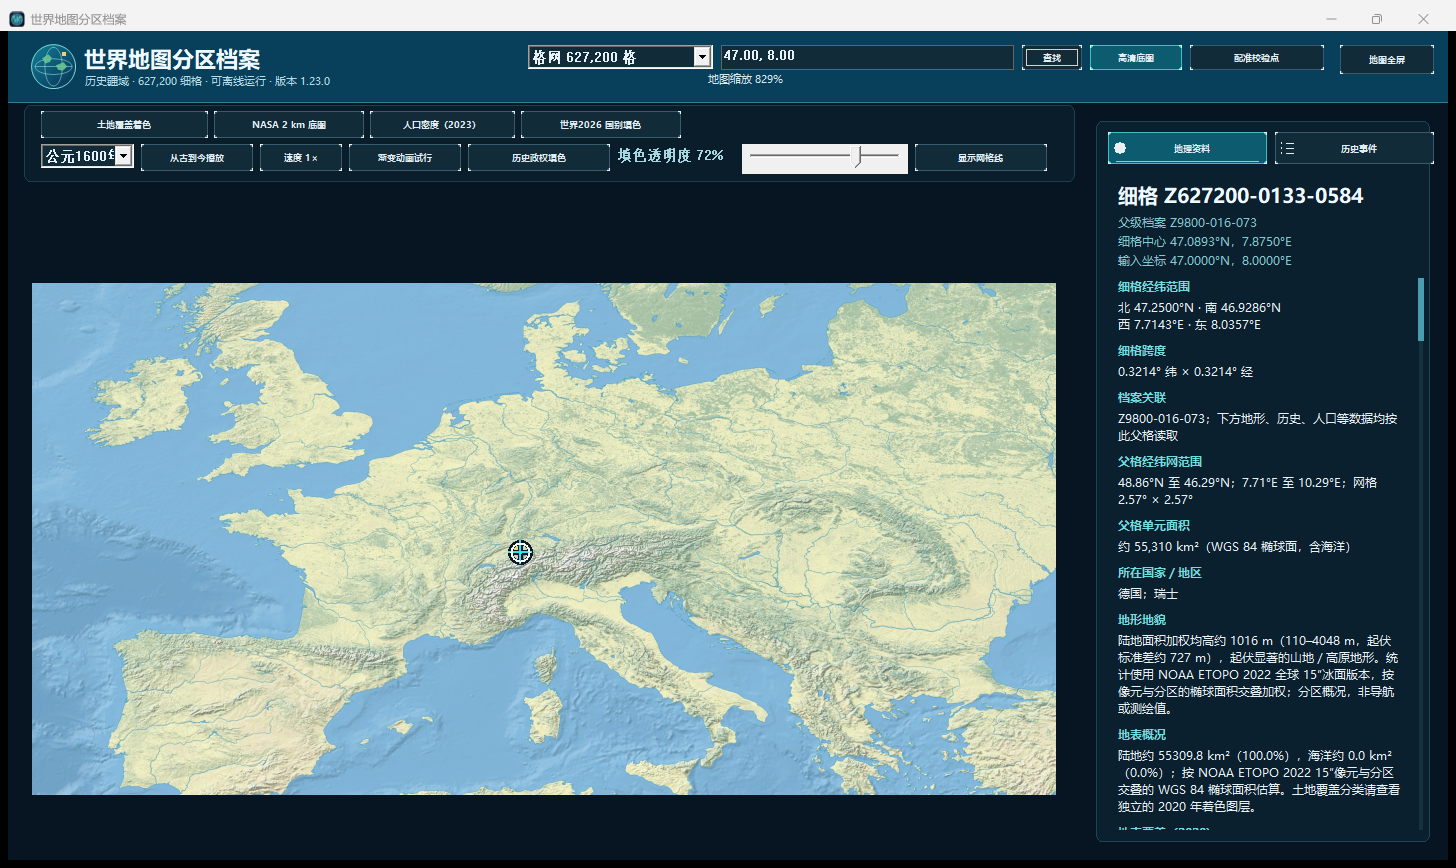
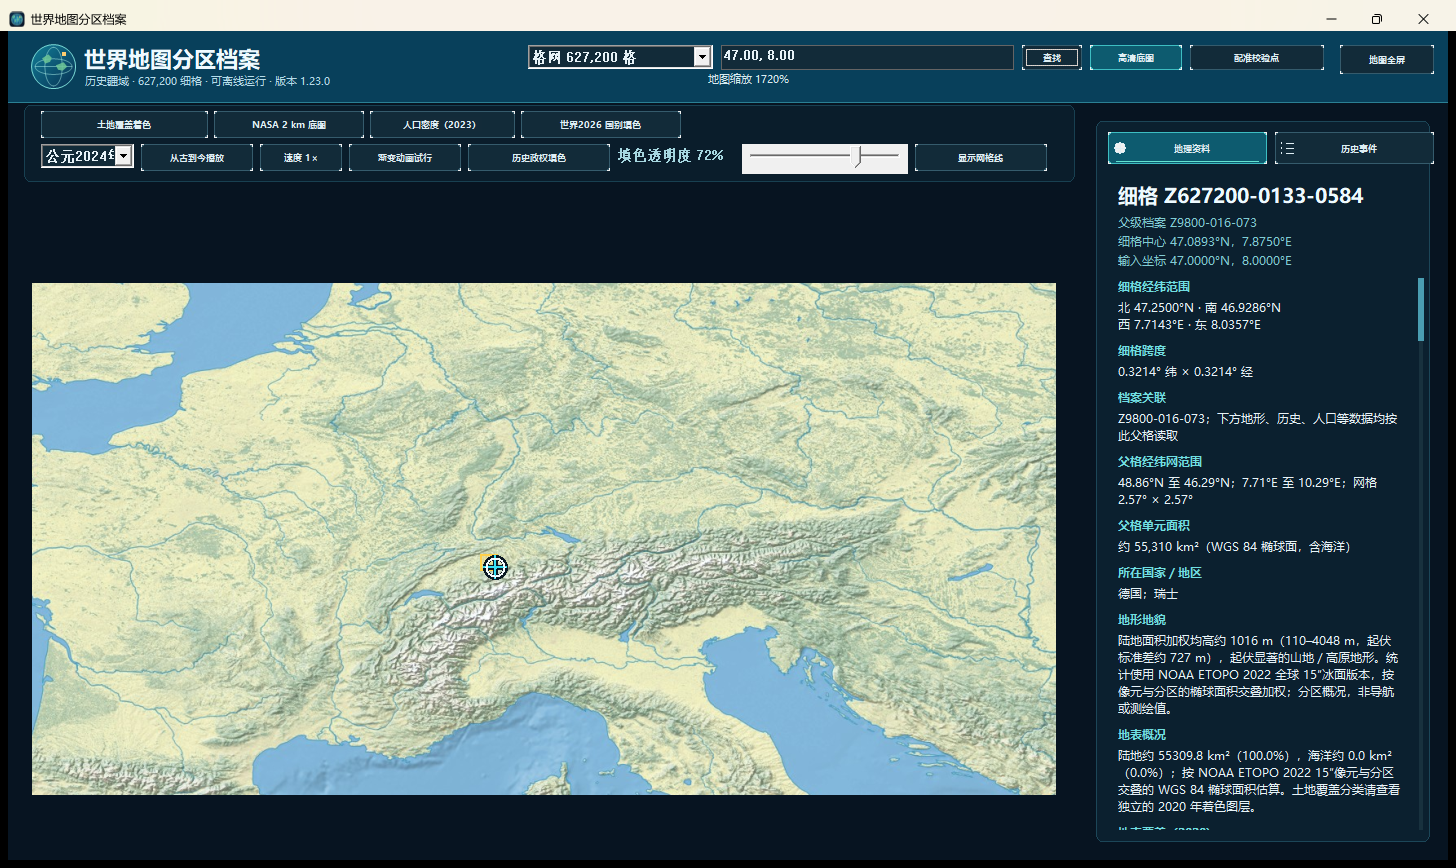
Organize complete screenshot showcase

Changed region(s): [[0.0, 0.3111, 0.7418, 0.9332], [0.0309, 0.0, 0.0927, 0.0311]]

diff --git a/screenshots/README.md b/screenshots/README.md
@@ -1,66 +1,104 @@
 # 1.23.0 界面截图画廊
 
-本目录保存 22 张来自完整运行版 1.23.0 的全界面 PNG，原图尺寸约为 1456 × 868 像素；点击预览即可查看或下载原图。
+本目录按“基础地图与专题”和“历史政权”两部分整理了 35 张完整界面 PNG。多数原图尺寸为 1456 × 868 像素；全屏地图为 1440 × 900 像素。点击图片可打开原图。
 
-- Natural Earth 展示图均启用了 Natural Earth 10m 高清底图；NASA 组使用 NASA Blue Marble 底图及其 1 km、500 m 细节影像。
-- 地图定位档位设为 627,200 格。细格定位特写开启网格线，其余视图减少网格线以保持地图清楚。
-- 历史截图已开启对应年份的历史政权填色；2026 年国别、WorldPop 2023 人口和 2020 年土地覆盖各自单独展示。
-- 透明度对照使用相同的公元 1600 年欧洲视角，分别显示 25%、72% 默认值和 100%。
+- Natural Earth 部分使用 Natural Earth 10m 高清底图；NASA 部分使用 NASA Blue Marble 与应用内可用的 1 km、500 m 细节影像。
+- 网格档位统一选择 627,200 格。网格线对照图使用相同地点、相同缩放比例，仅切换网格线状态。
+- 历史时期图均开启对应年份的历史政权填色；同组对照图保持年份、地点和缩放一致。
+- 项目里的专题图层是 **2020 年土地覆盖**，不是土壤成分或土壤类型图。其余专题图层为 2026 年国别分类与 WorldPop 2023 人口估算。
 
-## 世界底图与细格定位
+## 一、基础地图与专题
 
-| 全球高清底图 | 日本细格定位 |
+### 两张全球高清底图
+
+| Natural Earth 10m | NASA Blue Marble |
 | --- | --- |
-| **01 · Natural Earth 10m 全球底图**<br><a href="./01-world-overview.png"><img src="./01-world-overview.png" width="100%" alt="Natural Earth 10m 全球高清底图"></a> | **02 · 日本 627,200 格细格定位**<br><a href="./02-fine-grid-location.png"><img src="./02-fine-grid-location.png" width="100%" alt="日本细格定位与网格线"></a> |
+| **01 · Natural Earth 10m 全球高清底图**<br><a href="./01-world-overview.png"><img src="./01-world-overview.png" width="100%" alt="Natural Earth 10m 全球高清底图"></a> | **16 · NASA Blue Marble 全球底图**<br><a href="./16-nasa-blue-marble.png"><img src="./16-nasa-blue-marble.png" width="100%" alt="NASA Blue Marble 全球底图"></a> |
 
-| 非洲局部与细格 | Natural Earth 高清细节 |
+### Natural Earth 高清底图局部放大（4 个地区）
+
+| 欧洲 | 非洲 |
 | --- | --- |
-| **03 · 非洲中部高清放大与细格**<br><a href="./03-africa-detail.png"><img src="./03-africa-detail.png" width="100%" alt="非洲中部的高清地形和细格"></a> | **15 · 欧洲 Natural Earth 高清细节**<br><a href="./15-natural-earth-high-resolution.png"><img src="./15-natural-earth-high-resolution.png" width="100%" alt="Natural Earth 10m 高清底图欧洲放大图"></a> |
+| **15 · 欧洲地形细节**<br><a href="./15-natural-earth-high-resolution.png"><img src="./15-natural-earth-high-resolution.png" width="100%" alt="Natural Earth 高清底图欧洲局部放大"></a> | **15a · 非洲地形细节**<br><a href="./15a-natural-earth-africa-detail.png"><img src="./15a-natural-earth-africa-detail.png" width="100%" alt="Natural Earth 高清底图非洲局部放大"></a> |
 
-## 历史政权与填色透明度
-
-| 公元 1000 年 | 公元 1600 年 |
+| 安第斯山脉 | 喜马拉雅山脉 |
 | --- | --- |
-| **04 · 历史政权填色**<br><a href="./04-history-1000.png"><img src="./04-history-1000.png" width="100%" alt="公元 1000 年历史政权填色全球图"></a> | **05 · 历史政权填色**<br><a href="./05-history-1600.png"><img src="./05-history-1600.png" width="100%" alt="公元 1600 年历史政权填色全球图"></a> |
+| **15b · 安第斯山脉地形细节**<br><a href="./15b-natural-earth-andes-detail.png"><img src="./15b-natural-earth-andes-detail.png" width="100%" alt="Natural Earth 高清底图安第斯山脉局部放大"></a> | **15c · 喜马拉雅山脉地形细节**<br><a href="./15c-natural-earth-himalaya-detail.png"><img src="./15c-natural-earth-himalaya-detail.png" width="100%" alt="Natural Earth 高清底图喜马拉雅山脉局部放大"></a> |
 
-| 公元 1800 年 | 公元 2024 年 |
+### 627,200 格网格线开／关对照
+
+| 显示网格线 | 隐藏网格线 |
 | --- | --- |
-| **06 · 历史政权填色**<br><a href="./06-history-1800.png"><img src="./06-history-1800.png" width="100%" alt="公元 1800 年历史政权填色全球图"></a> | **07 · 历史政权填色**<br><a href="./07-history-2024.png"><img src="./07-history-2024.png" width="100%" alt="公元 2024 年历史政权填色全球图"></a> |
+| **02 · 日本局部细格，网格线开启**<br><a href="./02-fine-grid-location.png"><img src="./02-fine-grid-location.png" width="100%" alt="日本局部细格与网格线开启状态"></a> | **02a · 同一视角，网格线关闭**<br><a href="./02a-fine-grid-location-no-gridlines.png"><img src="./02a-fine-grid-location-no-gridlines.png" width="100%" alt="日本局部细格与网格线关闭状态"></a> |
 
-| 72% 默认透明度 | 25% 透明度 |
+非洲中部的细格定位与网格线示例见 **03**：<a href="./03-africa-detail.png"><img src="./03-africa-detail.png" width="50%" alt="非洲中部细格定位与网格线"></a>
+
+### 人口与土地覆盖
+
+| WorldPop 2023 人口估算 | 南亚人口局部图 |
 | --- | --- |
-| **08 · 公元 1600 年欧洲历史图，默认 72%**<br><a href="./08-history-europe-1600-opacity-72.png"><img src="./08-history-europe-1600-opacity-72.png" width="100%" alt="历史填色默认透明度 72%"></a> | **08a · 同一视角，25%**<br><a href="./08a-history-europe-1600-opacity-25.png"><img src="./08a-history-europe-1600-opacity-25.png" width="100%" alt="历史填色透明度 25%"></a> |
+| **11 · 全球人口密度估算**<br><a href="./11-population-2023.png"><img src="./11-population-2023.png" width="100%" alt="WorldPop 2023 全球人口密度估算"></a> | **12 · 南亚人口放大图**<br><a href="./12-population-south-asia.png"><img src="./12-population-south-asia.png" width="100%" alt="南亚人口密度估算局部放大"></a> |
 
-| 100% 透明度 |
-| --- |
-| **08b · 同一视角，100%**<br><a href="./08b-history-europe-1600-opacity-100.png"><img src="./08b-history-europe-1600-opacity-100.png" width="100%" alt="历史填色透明度 100%"></a> |
-
-## 国别与专题图层
-
-| 2026 年国家与地区分类 | 欧洲国别放大图 |
+| 2020 年土地覆盖 | 非洲土地覆盖局部图 |
 | --- | --- |
-| **09 · 2026 年国别填色**<br><a href="./09-country-regions-2026.png"><img src="./09-country-regions-2026.png" width="100%" alt="2026 年国别填色全球图"></a> | **10 · 欧洲国别放大图**<br><a href="./10-country-europe-zoom.png"><img src="./10-country-europe-zoom.png" width="100%" alt="欧洲国家与地区填色放大图"></a> |
+| **13 · 全球土地覆盖类别**<br><a href="./13-land-cover-2020.png"><img src="./13-land-cover-2020.png" width="100%" alt="2020 年全球土地覆盖专题图"></a> | **14 · 非洲土地覆盖类别**<br><a href="./14-land-cover-africa.png"><img src="./14-land-cover-africa.png" width="100%" alt="非洲 2020 年土地覆盖局部图"></a> |
 
-| WorldPop 2023 人口 | 南亚人口放大图 |
+### 其他专题与底图细节
+
+| 2026 年国别分类 | 欧洲国别放大图 |
 | --- | --- |
-| **11 · WorldPop 人口密度估算**<br><a href="./11-population-2023.png"><img src="./11-population-2023.png" width="100%" alt="WorldPop 2023 全球人口密度估算"></a> | **12 · 南亚人口密度放大图**<br><a href="./12-population-south-asia.png"><img src="./12-population-south-asia.png" width="100%" alt="南亚人口密度估算放大图"></a> |
+| **09 · 2026 年国家／地区填色**<br><a href="./09-country-regions-2026.png"><img src="./09-country-regions-2026.png" width="100%" alt="2026 年全球国家和地区分类填色"></a> | **10 · 欧洲国别局部图**<br><a href="./10-country-europe-zoom.png"><img src="./10-country-europe-zoom.png" width="100%" alt="欧洲国家和地区分类局部放大"></a> |
 
-| 2020 年土地覆盖 | 非洲土地覆盖放大图 |
+| NASA 1 km 细节 | NASA 500 m 细节 |
 | --- | --- |
-| **13 · 全球土地覆盖类别**<br><a href="./13-land-cover-2020.png"><img src="./13-land-cover-2020.png" width="100%" alt="2020 年全球土地覆盖类别"></a> | **14 · 非洲土地覆盖类别**<br><a href="./14-land-cover-africa.png"><img src="./14-land-cover-africa.png" width="100%" alt="非洲土地覆盖类别放大图"></a> |
+| **17 · NASA 1 km 影像细节**<br><a href="./17-nasa-detail-1km.png"><img src="./17-nasa-detail-1km.png" width="100%" alt="NASA 1 km 细节影像"></a> | **18 · NASA 500 m 影像细节**<br><a href="./18-nasa-detail-500m.png"><img src="./18-nasa-detail-500m.png" width="100%" alt="NASA 500 m 细节影像"></a> |
 
-## NASA Blue Marble 与高分辨率细节
-
-| NASA 全球底图 | 1 km 细节 |
+| 历史事件面板 | 全屏高清地图 |
 | --- | --- |
-| **16 · NASA Blue Marble 全球影像**<br><a href="./16-nasa-blue-marble.png"><img src="./16-nasa-blue-marble.png" width="100%" alt="NASA Blue Marble 全球底图"></a> | **17 · NASA 1 km 卫星影像**<br><a href="./17-nasa-detail-1km.png"><img src="./17-nasa-detail-1km.png" width="100%" alt="NASA 1 km 细节影像"></a> |
+| **19 · 历史事件浏览**<br><a href="./19-historical-events.png"><img src="./19-historical-events.png" width="100%" alt="历史事件面板与高清底图"></a> | **20 · 高清底图全屏浏览**<br><a href="./20-fullscreen-map.png"><img src="./20-fullscreen-map.png" width="100%" alt="Natural Earth 高清底图全屏视图"></a> |
 
-| 500 m 细节 |
-| --- |
-| **18 · NASA 500 m 卫星影像**<br><a href="./18-nasa-detail-500m.png"><img src="./18-nasa-detail-500m.png" width="100%" alt="NASA 500 m 细节影像"></a> |
+## 二、历史政权
 
-## 历史事件与全屏地图
+### 八个历史时间点（全球视图）
 
-| 历史事件面板 | 全屏地图 |
+从公元前 1000 年至公元 2024 年，均开启对应年份的历史政权填色。图上空白表示来源资料未收录相应记录。
+
+| 公元前 1000 年 | 公元 476 年 |
 | --- | --- |
-| **19 · 历史事件浏览**<br><a href="./19-historical-events.png"><img src="./19-historical-events.png" width="100%" alt="历史事件面板和高清底图"></a> | **20 · 高清底图全屏浏览**<br><a href="./20-fullscreen-map.png"><img src="./20-fullscreen-map.png" width="100%" alt="Natural Earth 高清底图全屏视图"></a> |
+| **历史填色**<br><a href="./history-1000-bce.png"><img src="./history-1000-bce.png" width="100%" alt="公元前 1000 年全球历史政权填色"></a> | **历史填色**<br><a href="./history-0476.png"><img src="./history-0476.png" width="100%" alt="公元 476 年全球历史政权填色"></a> |
+
+| 公元 1000 年 | 公元 1200 年 |
+| --- | --- |
+| **04 · 历史填色**<br><a href="./04-history-1000.png"><img src="./04-history-1000.png" width="100%" alt="公元 1000 年全球历史政权填色"></a> | **历史填色**<br><a href="./history-1200.png"><img src="./history-1200.png" width="100%" alt="公元 1200 年全球历史政权填色"></a> |
+
+| 公元 1600 年 | 公元 1800 年 |
+| --- | --- |
+| **05 · 历史填色**<br><a href="./05-history-1600.png"><img src="./05-history-1600.png" width="100%" alt="公元 1600 年全球历史政权填色"></a> | **06 · 历史填色**<br><a href="./06-history-1800.png"><img src="./06-history-1800.png" width="100%" alt="公元 1800 年全球历史政权填色"></a> |
+
+| 公元 1914 年 | 公元 2024 年 |
+| --- | --- |
+| **历史填色**<br><a href="./history-1914.png"><img src="./history-1914.png" width="100%" alt="公元 1914 年全球历史政权填色"></a> | **07 · 历史填色**<br><a href="./07-history-2024.png"><img src="./07-history-2024.png" width="100%" alt="公元 2024 年全球历史政权填色"></a> |
+
+### 公元 1600 年历史填色透明度对比（同一欧洲视角）
+
+| 25% | 72% 默认值 | 100% |
+| --- | --- | --- |
+| **08a**<br><a href="./08a-history-europe-1600-opacity-25.png"><img src="./08a-history-europe-1600-opacity-25.png" width="100%" alt="1600 年欧洲历史填色 25% 透明度"></a> | **08 · 默认透明度**<br><a href="./08-history-europe-1600-opacity-72.png"><img src="./08-history-europe-1600-opacity-72.png" width="100%" alt="1600 年欧洲历史填色默认 72% 透明度"></a> | **08b**<br><a href="./08b-history-europe-1600-opacity-100.png"><img src="./08b-history-europe-1600-opacity-100.png" width="100%" alt="1600 年欧洲历史填色 100% 透明度"></a> |
+
+### 历史疆域局部放大与透明度对照
+
+同一欧洲局部放大图分别显示 60%、90%、100% 透明度。90% 视角再以网格线开／关各展示一次。
+
+| 60% | 90% · 网格线关闭 | 100% |
+| --- | --- | --- |
+| **08d**<br><a href="./08d-history-europe-1600-detail-opacity-60.png"><img src="./08d-history-europe-1600-detail-opacity-60.png" width="100%" alt="1600 年欧洲局部历史填色，60% 透明度"></a> | **08c**<br><a href="./08c-history-europe-1600-detail-opacity-90.png"><img src="./08c-history-europe-1600-detail-opacity-90.png" width="100%" alt="1600 年欧洲局部历史填色，90% 透明度，网格线关闭"></a> | **08e**<br><a href="./08e-history-europe-1600-detail-opacity-100.png"><img src="./08e-history-europe-1600-detail-opacity-100.png" width="100%" alt="1600 年欧洲局部历史填色，100% 透明度"></a> |
+
+| 局部历史图 · 网格线关闭 | 同一视角 · 网格线开启 |
+| --- | --- |
+| **08c · 90% 透明度**<br><a href="./08c-history-europe-1600-detail-opacity-90.png"><img src="./08c-history-europe-1600-detail-opacity-90.png" width="100%" alt="欧洲局部历史图，网格线关闭"></a> | **08f · 90% 透明度**<br><a href="./08f-history-europe-1600-detail-opacity-90-gridlines.png"><img src="./08f-history-europe-1600-detail-opacity-90-gridlines.png" width="100%" alt="同一欧洲局部历史图，网格线开启"></a> |
+
+### 全球历史图与 NASA 底图叠加
+
+| 全球 1600 年历史图 | NASA 底图 + 1600 年历史填色 |
+| --- | --- |
+| **05 · Natural Earth 高清底图**<br><a href="./05-history-1600.png"><img src="./05-history-1600.png" width="100%" alt="Natural Earth 高清底图上的全球 1600 年历史政权填色"></a> | **16a · NASA Blue Marble**<br><a href="./16a-history-1600-nasa-base.png"><img src="./16a-history-1600-nasa-base.png" width="100%" alt="NASA Blue Marble 全球底图上的 1600 年历史政权填色"></a> |

diff --git a/README.md b/README.md
@@ -8,29 +8,49 @@
 
 ## 界面截图
 
-以下展示图来自当前公开版本 1.23.0。地图底图统一使用 Natural Earth 10m 高清底图；NASA 专题图使用 NASA Blue Marble 及其 1 km、500 m 细节影像。截图的定位档位设为 627,200 格，细格放大图开启网格线。历史政权、2026 年国别、2023 年人口和 2020 年土地覆盖分别单独展示，历史透明度另有同视角对照。
+以下展示图来自当前公开版本 1.23.0，按基础地图、专题图层和历史政权分类。纯底图与高清局部图使用 Natural Earth 10m 或 NASA 底图；网格档位为 627,200 格。历史政权填色、年份、透明度和网格线对照均有成组截图。
 
-| 细格定位与高清底图 | 历史疆域与透明度对照 |
+### 基础地图与专题
+
+| Natural Earth 10m 全球底图 | NASA Blue Marble 全球底图 |
 | --- | --- |
-| [<img src="screenshots/02-fine-grid-location.png" width="100%" alt="日本区域的 627,200 格细格定位与 Natural Earth 高清底图">](./screenshots/02-fine-grid-location.png) | [<img src="screenshots/08-history-europe-1600-opacity-72.png" width="100%" alt="公元 1600 年欧洲历史政权填色，默认透明度 72%">](./screenshots/08-history-europe-1600-opacity-72.png) |
+| [<img src="screenshots/01-world-overview.png" width="100%" alt="Natural Earth 10m 全球高清底图">](./screenshots/01-world-overview.png) | [<img src="screenshots/16-nasa-blue-marble.png" width="100%" alt="NASA Blue Marble 全球底图">](./screenshots/16-nasa-blue-marble.png) |
 
-| 历史填色 25% | 历史填色 100% |
+| 627,200 格 · 网格线开启 | 同一地点 · 网格线关闭 |
 | --- | --- |
-| [<img src="screenshots/08a-history-europe-1600-opacity-25.png" width="100%" alt="同一欧洲历史疆域视角，填色透明度 25%">](./screenshots/08a-history-europe-1600-opacity-25.png) | [<img src="screenshots/08b-history-europe-1600-opacity-100.png" width="100%" alt="同一欧洲历史疆域视角，填色透明度 100%">](./screenshots/08b-history-europe-1600-opacity-100.png) |
+| [<img src="screenshots/02-fine-grid-location.png" width="100%" alt="日本 627,200 格细格定位，网格线开启">](./screenshots/02-fine-grid-location.png) | [<img src="screenshots/02a-fine-grid-location-no-gridlines.png" width="100%" alt="日本同一细格视角，网格线关闭">](./screenshots/02a-fine-grid-location-no-gridlines.png) |
 
-| 2026 年国别分区 | WorldPop 2023 人口估算 |
+| 欧洲高清局部 | 非洲高清局部 |
 | --- | --- |
-| [<img src="screenshots/09-country-regions-2026.png" width="100%" alt="2026 年国家与地区分类填色，使用高清底图">](./screenshots/09-country-regions-2026.png) | [<img src="screenshots/11-population-2023.png" width="100%" alt="WorldPop 2023 人口密度估算专题图，使用高清底图">](./screenshots/11-population-2023.png) |
+| [<img src="screenshots/15-natural-earth-high-resolution.png" width="100%" alt="Natural Earth 高清底图欧洲局部放大">](./screenshots/15-natural-earth-high-resolution.png) | [<img src="screenshots/15a-natural-earth-africa-detail.png" width="100%" alt="Natural Earth 高清底图非洲局部放大">](./screenshots/15a-natural-earth-africa-detail.png) |
 
-| 2020 年土地覆盖 | NASA Blue Marble 底图 |
+| 安第斯山脉高清局部 | 喜马拉雅山脉高清局部 |
 | --- | --- |
-| [<img src="screenshots/13-land-cover-2020.png" width="100%" alt="2020 年土地覆盖专题图，使用高清底图">](./screenshots/13-land-cover-2020.png) | [<img src="screenshots/16-nasa-blue-marble.png" width="100%" alt="NASA Blue Marble 全球底图">](./screenshots/16-nasa-blue-marble.png) |
+| [<img src="screenshots/15b-natural-earth-andes-detail.png" width="100%" alt="Natural Earth 高清底图安第斯山脉局部放大">](./screenshots/15b-natural-earth-andes-detail.png) | [<img src="screenshots/15c-natural-earth-himalaya-detail.png" width="100%" alt="Natural Earth 高清底图喜马拉雅山脉局部放大">](./screenshots/15c-natural-earth-himalaya-detail.png) |
 
-| NASA 1 km 细节 | NASA 500 m 细节 |
+| WorldPop 2023 人口 | 2020 年土地覆盖 |
 | --- | --- |
-| [<img src="screenshots/17-nasa-detail-1km.png" width="100%" alt="NASA 1 km 高分辨率卫星影像细节">](./screenshots/17-nasa-detail-1km.png) | [<img src="screenshots/18-nasa-detail-500m.png" width="100%" alt="NASA 500 m 高分辨率卫星影像细节">](./screenshots/18-nasa-detail-500m.png) |
+| [<img src="screenshots/11-population-2023.png" width="100%" alt="WorldPop 2023 全球人口密度估算">](./screenshots/11-population-2023.png) | [<img src="screenshots/13-land-cover-2020.png" width="100%" alt="2020 年全球土地覆盖类别">](./screenshots/13-land-cover-2020.png) |
 
-完整 22 张展示图（含多个历史时期、地区放大图、专题图层、历史事件和全屏地图）见[截图画廊](./screenshots/README.md)。归档检查素材另见 [`1.23.0/qa`](./当前补丁/迭代工作/1.23.0/qa/)。
+项目实际提供的是 2020 年土地覆盖图层（如植被、农地等类别），并非土壤成分或土壤类型图。人口与土地覆盖局部图、2026 年国别分区和 NASA 1 km／500 m 细节图见[完整画廊](./screenshots/README.md)。
+
+### 历史政权与透明度
+
+全球历史填色覆盖 8 个展示节点：公元前 1000 年、公元 476 年、公元 1000 年、公元 1200 年、公元 1600 年、公元 1800 年、公元 1914 年和公元 2024 年。完整年份序列与各时期原图见[历史政权截图画廊](./screenshots/README.md)。
+
+| 公元 1600 年 · 默认 72% | 公元 1600 年 · NASA 底图 |
+| --- | --- |
+| [<img src="screenshots/08-history-europe-1600-opacity-72.png" width="100%" alt="1600 年欧洲历史政权填色，默认透明度 72%">](./screenshots/08-history-europe-1600-opacity-72.png) | [<img src="screenshots/16a-history-1600-nasa-base.png" width="100%" alt="NASA 全球底图上的 1600 年历史政权填色">](./screenshots/16a-history-1600-nasa-base.png) |
+
+| 局部放大 · 60% | 局部放大 · 90% | 局部放大 · 100% |
+| --- | --- | --- |
+| [<img src="screenshots/08d-history-europe-1600-detail-opacity-60.png" width="100%" alt="历史政权局部放大，60% 透明度">](./screenshots/08d-history-europe-1600-detail-opacity-60.png) | [<img src="screenshots/08c-history-europe-1600-detail-opacity-90.png" width="100%" alt="历史政权局部放大，90% 透明度">](./screenshots/08c-history-europe-1600-detail-opacity-90.png) | [<img src="screenshots/08e-history-europe-1600-detail-opacity-100.png" width="100%" alt="历史政权局部放大，100% 透明度">](./screenshots/08e-history-europe-1600-detail-opacity-100.png) |
+
+| 90% · 网格线关闭 | 同一视角 · 网格线开启 |
+| --- | --- |
+| [<img src="screenshots/08c-history-europe-1600-detail-opacity-90.png" width="100%" alt="历史局部图关闭网格线">](./screenshots/08c-history-europe-1600-detail-opacity-90.png) | [<img src="screenshots/08f-history-europe-1600-detail-opacity-90-gridlines.png" width="100%" alt="历史局部图开启网格线">](./screenshots/08f-history-europe-1600-detail-opacity-90-gridlines.png) |
+
+完整画廊共 35 张原图，另含 25%／72%／100% 同视角透明度对照、8 个历史年份、2026 年国别、人口与土地覆盖局部图、历史事件和全屏地图。归档检查素材另见 [`1.23.0/qa`](./当前补丁/迭代工作/1.23.0/qa/)。
 
 ## 功能一览
 
@@ -61,7 +81,7 @@
 | [`当前补丁/迭代工作/1.23.0/native`](./当前补丁/迭代工作/1.23.0/native/) | Windows 主程序、专题数据生成工具及相关源码 |
 | [`当前补丁/迭代工作/1.23.0/source-data`](./当前补丁/迭代工作/1.23.0/source-data/) | 历史疆域、历史事件、Natural Earth 输入和来源说明 |
 | [`当前补丁/迭代工作/1.23.0/qa`](./当前补丁/迭代工作/1.23.0/qa/) | 自动检查源码、运行记录和 35 张界面截图 |
-| [`screenshots`](./screenshots/) | 按专题整理的 22 张高清界面展示图，均可点击查看原图 |
+| [`screenshots`](./screenshots/) | 按基础地图、专题图层和历史政权整理的 35 张高清界面展示图 |
 | [`当前补丁/迭代工作/1.22.0`](./当前补丁/迭代工作/1.22.0/) | 保留的旧版源码、截图和检查记录 |
 | [`当前补丁/迭代工作/必要数据源`](./当前补丁/迭代工作/必要数据源/) | 原始数据说明和重建工具 |
 | [`交接文档`](./交接文档/) | 架构、来源、校准和历史变更资料 |

diff --git a/项目总览与目录说明.md b/项目总览与目录说明.md
@@ -34,7 +34,7 @@ world-map-explorer/
 │  └─ 迭代工作/必要数据源/                    原始数据说明和重建工具
 ├─ 交接文档/                                  架构、来源、校准和版本历史
 ├─ 原始输入/                                  保留的地图输入
-├─ screenshots/                               22 张高清界面展示图及完整截图画廊
+├─ screenshots/                               35 张高清界面展示图及完整截图画廊
 ├─ SUPPLEMENTAL-DATA.md                       Release 原始数据附件的恢复路径与校验值
 └─ 项目总览与目录说明.md
 ```
